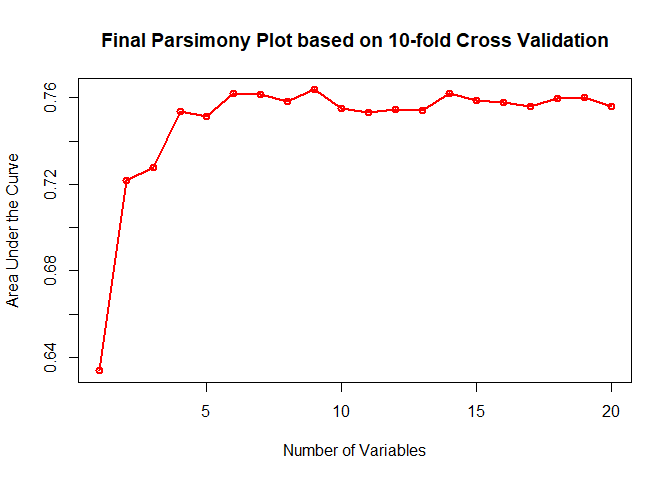
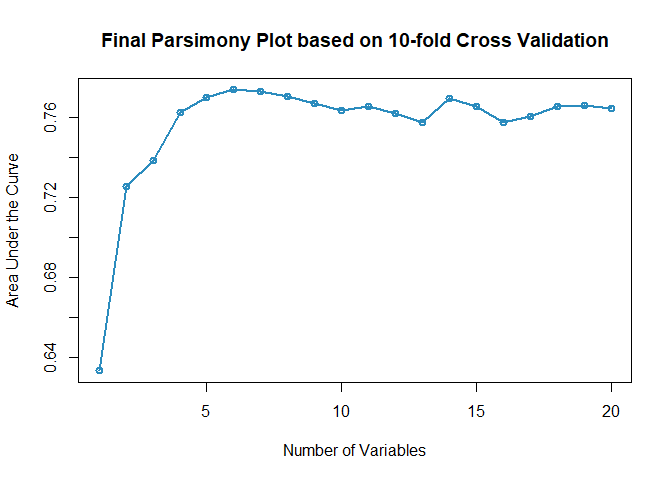
update README

diff --git a/README.md b/README.md
@@ -134,16 +134,14 @@ Informatics 2020;8(10):e21798 (<http://dx.doi.org/10.2196/21798>)
 
 # **AutoScore Demonstration**
 
-  - [Install /load the AutoScore package](#Demo0) and prepare the data.
-  - In [Demo \#1](#Demo1), we demonstrate the use of AutoScore on a
-    comparably large dataset where separate training and validation
-    datasets are available.
-  - In [Demo \#2](#Demo2), we demonstrate the use of AutoScore on a
-    comparably small dataset where no sufficient samples are available
-    to form separate training and validation datasets. Thus,
-    cross-validation is employed to create the parsimony plot.
-
-<h id="Demo0">
+  - Install /load the AutoScore package and prepare the data.
+  - In Demo \#1, we demonstrate the use of AutoScore on a comparably
+    large dataset where separate training and validation datasets are
+    available.
+  - In Demo \#2, we demonstrate the use of AutoScore on a comparably
+    small dataset where no sufficient samples are available to form
+    separate training and validation datasets. Thus, cross-validation is
+    employed to create the parsimony plot.
 
 ## **Install the package and prepare data**
 
@@ -153,7 +151,7 @@ Informatics 2020;8(10):e21798 (<http://dx.doi.org/10.2196/21798>)
 # From Github
 install.packages("devtools")
 library(devtools)
-install_github(repo = "nliulab/AutoScore")
+install_github(repo = "nliulab/AutoScore", build_vignettes = TRUE)
 
 # From CRAN (recommended)
 install.packages("AutoScore")
@@ -243,8 +241,6 @@ check_data(sample_data)
 ```
 
   - Modify your data to ensure no warning messages.
-
-<h id="Demo1">
 
 ## **AutoScore Demo \#1: Large dataset (sample size = 20000)**
 
@@ -343,7 +339,13 @@ AUC <- AutoScore_parsimony(
 #> Select 20 Variable(s):  Area under the curve: 0.8259
 ```
 
-![](README_files/figure-gfm/unnamed-chunk-7-1.png)<!-- -->
+![](README_files/figure-gfm/unnamed-chunk-7-1.png)<!-- --> - Users could
+use the `AUC` for further analysis or export it as the CSV to other
+software for plotting.
+
+``` r
+write.csv(data.frame(AUC),file = "D:/AUC.csv")
+```
 
   - Determine the optimal number of variables (`num_var`) based on the
     parsimony plot obtained in STEP(ii).
@@ -557,6 +559,9 @@ scoring_table <- AutoScore_fine_tuning(train_set,
     threshold will be calculated (Default: `"best"`).
   - `with_label`: Set to `TRUE` if there are labels in the `test_set`
     and performance will be evaluated accordingly (Default: `TRUE`).
+  - Set the `with_label` to `FALSE` if there are not `label` in the
+    `test_set` and the final predicted scores will be the output without
+    performance evaluation.
 
 <!-- end list -->
 
@@ -585,6 +590,13 @@ pred_score <- AutoScore_testing(test_set, final_variables, cut_vec, scoring_tabl
 
   - Users could use the `pred_score` for further analysis or export it
     as the CSV to other software.
+
+<!-- end list -->
+
+``` r
+write.csv(pred_score, file = "D:/pred_score.csv")
+```
+
   - Use `print_roc_performance()` to generate the performance under
     different score thresholds (e.g., 50).
 
@@ -600,8 +612,6 @@ print_roc_performance(pred_score$Label, pred_score$pred_score, threshold = 50)
 #> PPV:         0.1442 95% CI: 0.1379-0.1506
 #> NPV:         0.9861 95% CI: 0.9809-0.9907
 ```
-
-<h id="Demo2">
 
 ## **AutoScore Demo \#2: Small dataset (sample size = 1000) with cross-validation**
 
@@ -643,7 +653,7 @@ test_set <- out_split$test_set
 <!-- end list -->
 
 ``` r
-ranking <- AutoScore_rank(train_set, ntree=100)
+ranking <- AutoScore_rank(train_set, ntree = 100)
 #> The ranking based on variable importance was shown below for each variable: 
 #>              Age    aniongap_mean     lactate_mean    resprate_mean 
 #>        37.406648        31.315285        25.564054        21.855069 
@@ -697,26 +707,26 @@ AUC <- AutoScore_parsimony(
   )
 #> ***list of final mean AUC values through cross-validation are shown below 
 #>    auc_set.sum
-#> 1    0.6337707
-#> 2    0.7219767
-#> 3    0.7277593
-#> 4    0.7537172
-#> 5    0.7516205
-#> 6    0.7619839
-#> 7    0.7616981
-#> 8    0.7582741
-#> 9    0.7636885
-#> 10   0.7552515
-#> 11   0.7534764
-#> 12   0.7547035
-#> 13   0.7542316
-#> 14   0.7618277
-#> 15   0.7589772
-#> 16   0.7578815
-#> 17   0.7562271
-#> 18   0.7597782
-#> 19   0.7603524
-#> 20   0.7558810
+#> 1    0.6332124
+#> 2    0.7254603
+#> 3    0.7381319
+#> 4    0.7623322
+#> 5    0.7695922
+#> 6    0.7735329
+#> 7    0.7728111
+#> 8    0.7700531
+#> 9    0.7665829
+#> 10   0.7634048
+#> 11   0.7651904
+#> 12   0.7617113
+#> 13   0.7571203
+#> 14   0.7694130
+#> 15   0.7650977
+#> 16   0.7572382
+#> 17   0.7603713
+#> 18   0.7650728
+#> 19   0.7656964
+#> 20   0.7645128
 ```
 
 ![](README_files/figure-gfm/parsi-1.png)<!-- -->
@@ -809,10 +819,10 @@ cut_vec <- AutoScore_weighting(
     #> AUC:  0.7891   95% CI: 0.7558-0.8224 (DeLong)
     #> Best score threshold: >= 48 
     #> Other performance indicators based on this score threshold: 
-    #> Sensitivity: 0.706 95% CI: 0.6593-0.7501
-    #> Specificity: 0.7589 95% CI: 0.7113-0.8065
-    #> PPV:         0.7608 95% CI: 0.7235-0.7981
-    #> NPV:         0.7048 95% CI: 0.67-0.7391
+    #> Sensitivity: 0.706 95% CI: 0.6593-0.7555
+    #> Specificity: 0.7589 95% CI: 0.7113-0.8036
+    #> PPV:         0.7606 95% CI: 0.7233-0.7975
+    #> NPV:         0.7044 95% CI: 0.6703-0.7423
     #> ***The cutoffs of each variable generated by the AutoScore are saved in cut_vec. You can decide whether to revise or fine-tune them
 
 ### STEP(iv): Fine-tune the initial score generated in STEP(iii) (AutoScore Module 5 & Re-run AutoScore Modules 2+3)
@@ -910,8 +920,8 @@ scoring_table <- AutoScore_fine_tuning(train_set,
     #> Other performance indicators based on this score threshold: 
     #> Sensitivity: 0.5714 95% CI: 0.522-0.6209
     #> Specificity: 0.8214 95% CI: 0.7827-0.8601
-    #> PPV:         0.7769 95% CI: 0.7354-0.8171
-    #> NPV:         0.6392 95% CI: 0.6105-0.6691
+    #> PPV:         0.7774 95% CI: 0.7341-0.8176
+    #> NPV:         0.6392 95% CI: 0.6105-0.669
 
 ### STEP(v): Evaluate final risk scores on test dataset (AutoScore Module 6)
 
@@ -920,6 +930,9 @@ scoring_table <- AutoScore_fine_tuning(train_set,
     threshold will be calculated (Default: `"best"`).
   - `with_label`: Set to `TRUE` if there are labels in the `test_set`
     and performance will be evaluated accordingly (Default: `TRUE`).
+  - Set the `with_label` to `FALSE` if there are not `label` in the
+    `test_set` and the final predicted scores will be the output without
+    performance evaluation.
 
 <!-- end list -->
 
@@ -933,10 +946,10 @@ pred_score <- AutoScore_testing(test_set, final_variables, cut_vec, scoring_tabl
     #> AUC:  0.7133   95% CI: 0.6556-0.7709 (DeLong)
     #> Best score threshold: >= 51 
     #> Other performance indicators based on this score threshold: 
-    #> Sensitivity: 0.7421 95% CI: 0.673-0.8115
-    #> Specificity: 0.5887 95% CI: 0.5035-0.6738
-    #> PPV:         0.6721 95% CI: 0.6243-0.7212
-    #> NPV:         0.6719 95% CI: 0.6061-0.7391
+    #> Sensitivity: 0.7421 95% CI: 0.673-0.8113
+    #> Specificity: 0.5887 95% CI: 0.5035-0.6667
+    #> PPV:         0.6707 95% CI: 0.6263-0.7207
+    #> NPV:         0.6696 95% CI: 0.6061-0.7381
     head(pred_score)
     #>   pred_score Label
     #> 1         53  TRUE
@@ -948,6 +961,13 @@ pred_score <- AutoScore_testing(test_set, final_variables, cut_vec, scoring_tabl
 
   - Users could use the `pred_score` for further analysis or export it
     as the CSV to other software.
+
+<!-- end list -->
+
+``` r
+write.csv(pred_score,file = "D:/pred_score.csv")
+```
+
   - Use `print_roc_performance()` to generate the performance under
     different score thresholds (e.g., 90).
   - Note: It is just a demo using simulated data, and thus, the result
